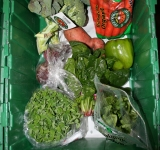
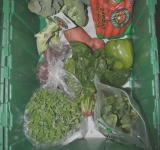
changed the images to 260 x 200 and also reduced the contrast so that the arrow shows up better

diff --git a/public/stills/index.php b/public/stills/index.php
@@ -1,23 +1,24 @@
 <?php
 function resize_uploaded_file($sIn, $sOut) {
 	$hIn = imagecreatefromjpeg($sIn);
+	imagefilter($hIn, IMG_FILTER_CONTRAST, 20);
 	list($x, $y, $type, $attr) = getimagesize($sIn);
 	if ($x > $y) {
-		$nXNew = $y * 160 / 150;
+		$nXNew = $y * 260 / 200;
 		$nYNew = $y;
 		$nXOffs = ($x - $nXNew) / 2;
 		$hCanvas = imagecreatetruecolor($nXNew, $y);
 		imagecopy($hCanvas, $hIn, 0, 0, $nXOffs, 0, $nXNew, $y);
 	} else {
 		$nXNew = $x;
-		$nYNew = $x * 150 / 160;
+		$nYNew = $x * 200 / 260;
 		$nYOffs = ($y - $nYNew) / 2;
 		$hCanvas = imagecreatetruecolor($x, $nYNew);
 		imagecopy($hCanvas, $hIn, 0, 0, 0, $nYOffs, $x, $nYNew);
 	}
-	$h160x150 = imagecreatetruecolor(160, 150);
-	imagecopyresampled($h160x150, $hCanvas, 0, 0, 0, 0, 160, 150, $nXNew, $nYNew);
-	$sOutfile = preg_replace('/\.jpg/i', '_160x150.jpg', $sOut);
+	$h160x150 = imagecreatetruecolor(260, 200);
+	imagecopyresampled($h160x150, $hCanvas, 0, 0, 0, 0, 260, 200, $nXNew, $nYNew);
+	$sOutfile = preg_replace('/\.jpg/i', '_260x200.jpg', $sOut);
 	imagejpeg($h160x150, $sOutfile, 100);
 	unlink($sIn);
 	return $sOutfile;

diff --git a/public/vlog/index.php b/public/vlog/index.php
@@ -36,8 +36,8 @@ if($bDirty){
 ?>
 <style>
 	article div {
-		width: 160px;
-		height: 150px;
+		width: 260px;
+		height: 200px;
 		background-repeat: no-repeat;
 		background-position: center;
 		display: table-cell;
@@ -110,7 +110,7 @@ if($bDirty){
 		xhr.onreadystatechange = function() {
 			if (xhr.readyState == 4 && xhr.status == 200) {
 				var re= new RegExp('(.jpg)', 'gi');
-				oTarget.style.backgroundImage="url(stills/" + myFileObject.name.replace(re, "_160x150.jpg") + ')';
+				oTarget.style.backgroundImage="url(stills/" + myFileObject.name.replace(re, "_260x200.jpg") + ')';
 			}
 		}
 		// Send the file
